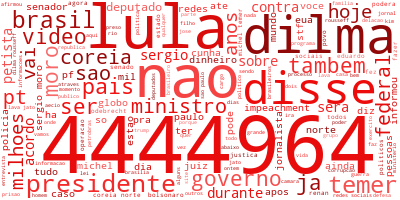
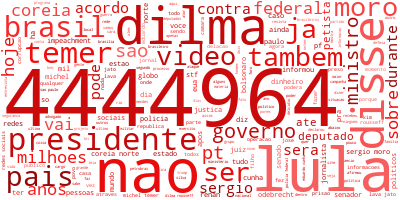
Informações adicionais

diff --git a/main.py b/main.py
@@ -124,6 +124,26 @@ class Demonstracao:
         plt.axis("off")
         plt.title(self.titulo)
         plt.show()
+        
+    def demonstracao_respostas_das_questoes(self, filtro_classificacao:str, dict_resultado:dict):
+        indice = (dict_resultado['treino_classificacao'] == filtro_classificacao)
+        filtro_matriz = dict_resultado['matriz_tf_idf_treino'][indice]
+        resultado = np.asarray(filtro_matriz.getnnz(axis=0)).ravel() > 0
+        termos = dict_resultado['termos'][resultado]
+
+        unigrama = [t for t in termos if t.count(' ') == 0]
+        bigramas  = [t for t in termos if t.count(' ') == 1]
+        trigramas = [t for t in termos if t.count(' ') == 2]
+
+        print(f"Palavras:")
+        print(len(unigrama))
+        print(f"Bigramas:")
+        print(len(bigramas))
+        print(f"Trigramas:")
+        print(len(trigramas))
+        print("Acurácia: ")
+        print(dict_resultado['acuracia'])
+        
     
 if __name__ == '__main__':
     '''
@@ -135,7 +155,7 @@ if __name__ == '__main__':
     # Definição do número máximo de palavras por texto
     # Faço isso para calibração, para que a IA não atribua
     # pesos excessívos para parâmetros de tamanho de texto
-    qtd_max_de_tokens = 210
+    qtd_max_de_tokens = 170
     # Caminho local do arquivo pre-processed.csv
     caminho_csv = "corpus/preprocessed/pre-processed.csv"
     meu_ru = '4444964'
@@ -199,18 +219,19 @@ if __name__ == '__main__':
     # Criei uma classe responsável só para demonstração dos resultados
     # Por gráfico de núvem de palavras
     inst_demonstracao = Demonstracao(meu_ru=meu_ru)
+    filtros = ['true', 'fake']
     
-    # Gerando gráfico das notícias Verdadeiras e salvando:
-    inst_demonstracao.gerar_grafico(
-        filtro_classificacao='true',
-        treino_classificacao= dict_resultado['treino_classificacao'],
-        matriz_tf_idf_treino=dict_resultado['matriz_tf_idf_treino'],
-        termos=dict_resultado['termos']
-    )
-    # Gerando gráfico das notícias Falsas e salvando:
-    inst_demonstracao.gerar_grafico(
-        filtro_classificacao='fake',
-        treino_classificacao= dict_resultado['treino_classificacao'],
-        matriz_tf_idf_treino=dict_resultado['matriz_tf_idf_treino'],
-        termos=dict_resultado['termos']
-    )
+    for filtro_loop in filtros:
+        print(f'\n\nCaso {filtro_loop}:\n\n')
+        # Gerando gráfico das notícias Verdadeiras ou Falsas (Loop) e salvando:
+        inst_demonstracao.gerar_grafico(
+            filtro_classificacao=filtro_loop,
+            treino_classificacao= dict_resultado['treino_classificacao'],
+            matriz_tf_idf_treino=dict_resultado['matriz_tf_idf_treino'],
+            termos=dict_resultado['termos']
+        )
+    
+        inst_demonstracao.demonstracao_respostas_das_questoes(
+            filtro_classificacao=filtro_loop,
+            dict_resultado=dict_resultado
+        )
